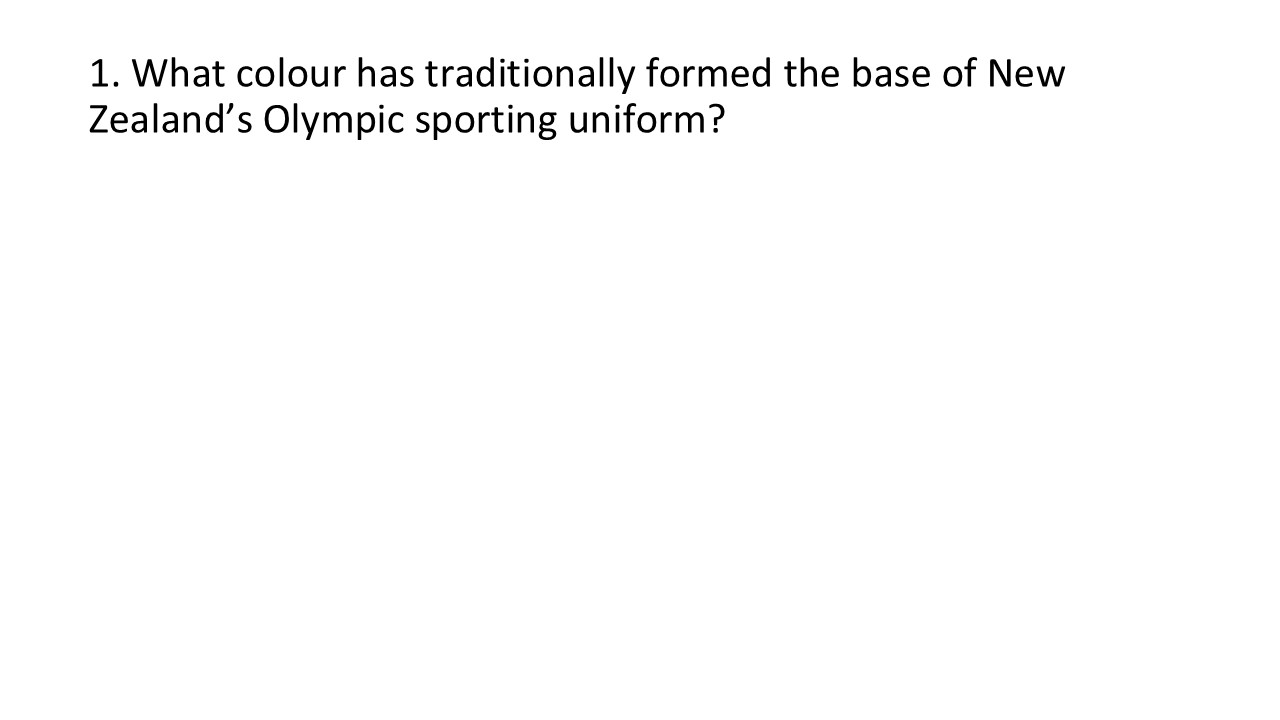
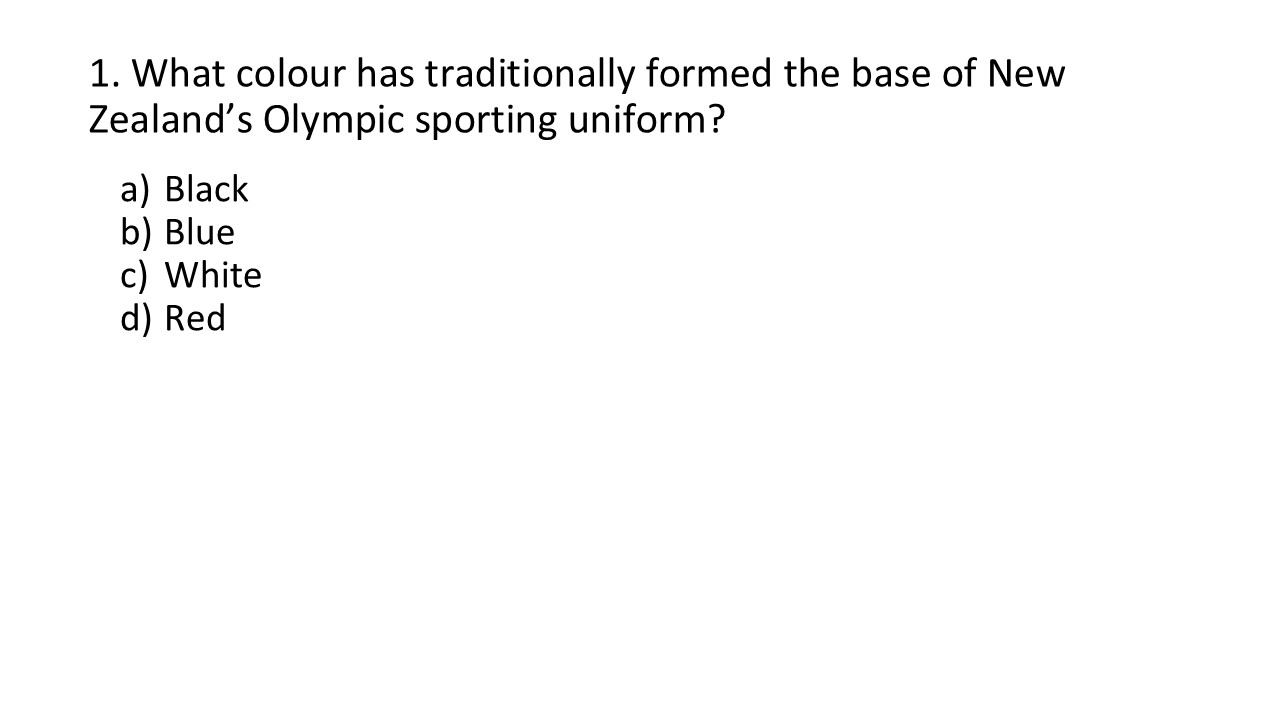
Make Session 3 trivia easier with multiple-choice answers

Changed region(s): [[0.0938, 0.2444, 0.2188, 0.4583]]

diff --git a/backend/src/services/cstScriptService.js b/backend/src/services/cstScriptService.js
@@ -1152,11 +1152,11 @@ const scripts = {
       title: 'Olympic Trivia',
       subtitle: 'The next Summer Olympics',
       prompt: 'When is the next Summer Olympics, and who is hosting it?',
-      bullets: ['Year', 'Host city'],
+      bullets: ["A. 2028 New Zealand","B. 2028 Los Angeles","C. 2029 London","D. 2029 Sweden"],
       visualHint: 'Source deck: NZ03. Physical Games, slide 22',
       accent: '#00AEEF',
       acceptAnyAnswer: true,
-      reply: () => 'When is the next Summer Olympics, and who is hosting the next Summer Olympics?',
+      reply: () => 'When is the next Summer Olympics, and who is hosting the next Summer Olympics? A. 2028 New Zealand. B. 2028 Los Angeles. C. 2029 London. D. 2029 Sweden. You can say the letter or the answer.',
     },
     {
       id: 'physical_games_trivia_next_olympics_answer',
@@ -1180,11 +1180,11 @@ const scripts = {
       title: 'Olympic Trivia Question 1',
       subtitle: 'New Zealand sporting colour',
       prompt: "What colour has traditionally formed the base of New Zealand's Olympic sporting uniform?",
-      bullets: ['New Zealand', 'Traditional sporting colour'],
+      bullets: ["A. Black","B. Blue","C. White","D. Red"],
       visualHint: 'Source deck: NZ03. Physical Games, slide 24',
       accent: '#A8C5A0',
       acceptAnyAnswer: true,
-      reply: () => "What colour has traditionally formed the base of New Zealand's Olympic sporting uniform?",
+      reply: () => "What colour has traditionally formed the base of New Zealand's Olympic sporting uniform? A. Black. B. Blue. C. White. D. Red. You can say the letter or the answer.",
     },
     {
       id: 'physical_games_trivia_uniform_answer',
@@ -1208,11 +1208,11 @@ const scripts = {
       title: 'Olympic Trivia Question 2',
       subtitle: 'First individual gold',
       prompt: 'Who was the first New Zealander to win an individual Olympic gold medal?',
-      bullets: ['New Zealand', 'Individual gold medal'],
+      bullets: ["A. Valerie Adams","B. Lisa Carrington","C. Ted Morgan","D. Hamish Bond"],
       visualHint: 'Source deck: NZ03. Physical Games, slide 26',
       accent: '#4472C4',
       acceptAnyAnswer: true,
-      reply: () => 'Who was the first New Zealander to win an individual Olympic gold medal?',
+      reply: () => 'Who was the first New Zealander to win an individual Olympic gold medal? A. Valerie Adams. B. Lisa Carrington. C. Ted Morgan. D. Hamish Bond. You can say the letter or the answer.',
     },
     {
       id: 'physical_games_trivia_first_gold_answer',
@@ -1237,12 +1237,12 @@ const scripts = {
       title: 'Olympic Trivia Question 3',
       subtitle: 'A famous New Zealand runner',
       prompt: 'Who won Olympic gold in the 800 metres in 1960, then both the 800 and 1500 metres in 1964?',
-      bullets: ['800 metres: 1960 and 1964', '1500 metres: 1964'],
+      bullets: ["A. Peter Snell","B. Lisa Carrington"],
       visualHint: 'Source deck: NZ03. Physical Games, slide 28',
       accent: '#00AEEF',
       acceptAnyAnswer: true,
       reply: () =>
-        'Which famous New Zealand athlete won Olympic gold in the 800 metres in 1960, then both the 800 and 1500 metres in 1964?',
+        'Which famous New Zealand athlete won Olympic gold in the 800 metres in 1960, then both the 800 and 1500 metres in 1964? A. Peter Snell. B. Lisa Carrington. You can say the letter or the answer.',
     },
     {
       id: 'physical_games_trivia_runner_answer',
@@ -1266,11 +1266,11 @@ const scripts = {
       title: 'Olympic Trivia Question 4',
       subtitle: 'New Zealand gold medals',
       prompt: 'Through the Paris 2024 Olympic Games, in which sport has New Zealand won the most Olympic gold medals?',
-      bullets: ['Through Paris 2024', 'New Zealand gold medals'],
+      bullets: ["A. Rugby","B. Football","C. Badminton","D. Rowing"],
       visualHint: 'Source deck: NZ03. Physical Games, slide 30',
       accent: '#F47C20',
       acceptAnyAnswer: true,
-      reply: () => 'Through the Paris 2024 Olympic Games, in which sport has New Zealand won the most Olympic gold medals?',
+      reply: () => 'Through the Paris 2024 Olympic Games, in which sport has New Zealand won the most Olympic gold medals? A. Rugby. B. Football. C. Badminton. D. Rowing. You can say the letter or the answer.',
     },
     {
       id: 'physical_games_trivia_most_gold_answer',
@@ -1294,12 +1294,12 @@ const scripts = {
       title: 'Olympic Trivia Question 5',
       subtitle: 'Lisa Carrington',
       prompt: 'How many gold medals did Lisa Carrington win at Tokyo 2020?',
-      bullets: ['Lisa Carrington', 'Tokyo 2020'],
+      bullets: ["A. Two","B. Three","C. Four"],
       visualHint: 'Source deck: NZ03. Physical Games, slide 32',
       accent: '#4472C4',
       acceptAnyAnswer: true,
       reply: () =>
-        'Lisa Carrington became New Zealand’s most decorated Olympian at Tokyo 2020. How many gold medals did she win at those Games alone?',
+        'Lisa Carrington became New Zealand’s most decorated Olympian at Tokyo 2020. How many gold medals did she win at those Games alone? A. Two. B. Three. C. Four. You can say the letter or the answer.',
     },
     {
       id: 'physical_games_trivia_carrington_answer',

diff --git a/backend/src/services/sessionOrchestratorService.js b/backend/src/services/sessionOrchestratorService.js
@@ -649,32 +649,38 @@ export const evaluateOrientationAnswer = ({ step, content, retryCount }) => {
 
 const SCRIPTED_TRIVIA_RULES = {
   physical_games_trivia_next_olympics: {
+    choices: ['2028 New Zealand', '2028 Los Angeles', '2029 London', '2029 Sweden'],
     isCorrect: (answer) =>
       /\b2028\b/.test(answer) && /\b(?:los angeles|l a)\b/.test(answer),
     correctResponse: 'Exactly — you got both the year and host city right.',
     incorrectResponse: 'Good try. One or both parts are not quite right.',
   },
   physical_games_trivia_uniform: {
+    choices: ['Black', 'Blue', 'White', 'Red'],
     isCorrect: (answer) => /\bblack\b/.test(answer),
     correctResponse: 'That is right — you chose the correct colour.',
     incorrectResponse: 'Not quite, but that was a good guess.',
   },
   physical_games_trivia_first_gold: {
+    choices: ['Valerie Adams', 'Lisa Carrington', 'Ted Morgan', 'Hamish Bond'],
     isCorrect: (answer) => /\b(?:ted morgan|morgan)\b/.test(answer),
     correctResponse: 'Spot on — you named the right Olympian.',
     incorrectResponse: 'That is not the Olympian we are looking for, but good try.',
   },
   physical_games_trivia_runner: {
+    choices: ['Peter Snell', 'Lisa Carrington'],
     isCorrect: (answer) => /\b(?:peter snell|snell)\b/.test(answer),
     correctResponse: 'Correct — you identified the runner.',
     incorrectResponse: 'That is not quite right, but it was worth a try.',
   },
   physical_games_trivia_most_gold: {
+    choices: ['Rugby', 'Football', 'Badminton', 'Rowing'],
     isCorrect: (answer) => /\browing\b/.test(answer),
     correctResponse: 'You have got it — that is the right sport.',
     incorrectResponse: 'Close, but that is not the sport in the answer.',
   },
   physical_games_trivia_carrington: {
+    choices: ['Two', 'Three', 'Four'],
     isCorrect: (answer) => /\b(?:3|three)\b/.test(answer),
     correctResponse: 'Well done — that number is correct.',
     incorrectResponse: 'That number is not quite right, but good guess.',
@@ -693,6 +699,18 @@ const SCRIPTED_TRIVIA_RULES = {
 
 const isScriptedTriviaQuestion = (step) => Boolean(SCRIPTED_TRIVIA_RULES[step?.id]);
 
+// Only expand complete letter selections: the article "a" in a sentence must
+// not become option A.
+const expandTriviaChoices = (content, choices) => {
+  if (!choices) return content;
+  const answer = normalizeAnswer(content);
+  const selection = answer.match(/^(?:(?:i think|i choose|i pick|i will go with|i ll go with|it is|it s|the answer is)\s+)?(?:(?:option|letter|answer)\s+)?([abcd]|ay|bee|be|see|sea|dee)(?:\s+please)?$/);
+  if (!selection) return content;
+  const letters = { ay: 'a', bee: 'b', be: 'b', see: 'c', sea: 'c', dee: 'd' };
+  const letter = letters[selection[1]] || selection[1];
+  return choices[letter.charCodeAt(0) - 97] || content;
+};
+
 export const evaluateTriviaAnswer = ({ step, content }) => {
   const rule = SCRIPTED_TRIVIA_RULES[step?.id];
   if (!rule || !content) return null;
@@ -705,7 +723,7 @@ export const evaluateTriviaAnswer = ({ step, content }) => {
     };
   }
 
-  const correct = rule.isCorrect(normalizeAnswer(content));
+  const correct = rule.isCorrect(normalizeAnswer(expandTriviaChoices(content, rule.choices)));
   return {
     answered: true,
     response: correct ? rule.correctResponse : rule.incorrectResponse,

diff --git a/backend/src/services/sessionOrchestratorService.test.js b/backend/src/services/sessionOrchestratorService.test.js
@@ -388,17 +388,17 @@ test('keeps Session 3 Olympic trivia answers precise and current through Paris 2
 
   assert.equal(
     renderScriptReply(nextOlympicsQuestion, {}),
-    'When is the next Summer Olympics, and who is hosting the next Summer Olympics?'
+    'When is the next Summer Olympics, and who is hosting the next Summer Olympics? A. 2028 New Zealand. B. 2028 Los Angeles. C. 2029 London. D. 2029 Sweden. You can say the letter or the answer.'
   );
   assert.match(renderScriptReply(nextOlympicsAnswer, {}), /Los Angeles in 2028/i);
   assert.equal(
     renderScriptReply(uniformQuestion, {}),
-    "What colour has traditionally formed the base of New Zealand's Olympic sporting uniform?"
+    "What colour has traditionally formed the base of New Zealand's Olympic sporting uniform? A. Black. B. Blue. C. White. D. Red. You can say the letter or the answer."
   );
   assert.match(renderScriptReply(uniformAnswer, {}), /answer is black/i);
   assert.equal(
     renderScriptReply(firstGoldQuestion, {}),
-    'Who was the first New Zealander to win an individual Olympic gold medal?'
+    'Who was the first New Zealander to win an individual Olympic gold medal? A. Valerie Adams. B. Lisa Carrington. C. Ted Morgan. D. Hamish Bond. You can say the letter or the answer.'
   );
   assert.match(renderScriptReply(firstGoldAnswer, {}), /Ted Morgan.*welterweight boxing.*1928/i);
   assert.match(renderScriptReply(runnerQuestion, {}), /800 metres in 1960/i);
@@ -2077,4 +2077,37 @@ test('rejects a duplicate meal-builder submission once the plate has already bee
     }),
     (error) => error.status === 409
   );
+});
+
+
+test('Session 3 accepts each displayed option by letter or text', () => {
+  const cases = [
+    [21, ['2028 New Zealand', '2028 Los Angeles', '2029 London', '2029 Sweden'], 1],
+    [23, ['Black', 'Blue', 'White', 'Red'], 0],
+    [25, ['Valerie Adams', 'Lisa Carrington', 'Ted Morgan', 'Hamish Bond'], 2],
+    [27, ['Peter Snell', 'Lisa Carrington'], 0],
+    [29, ['Rugby', 'Football', 'Badminton', 'Rowing'], 3],
+    [31, ['Two', 'Three', 'Four'], 1],
+  ];
+  for (const [index, options, correct] of cases) {
+    const step = getScriptStep('cst_physical_games', index).step;
+    for (const [i, option] of options.entries()) {
+      const letter = 'ABCD'[i];
+      for (const content of [letter, letter.toLowerCase(), letter + '.', 'option ' + letter, 'I think ' + letter, 'I will go with ' + letter, option, 'I think ' + option]) {
+        assert.equal(evaluateTriviaAnswer({ step, content }).outcome, i === correct ? 'correct' : 'incorrect', step.id + ': ' + content);
+      }
+      assert.ok(renderScriptReply(step, {}).includes(letter + '. ' + option));
+    }
+  }
+});
+
+test('letter matching handles speech spellings without matching articles or unavailable choices', () => {
+  const outcome = (index, content) => evaluateTriviaAnswer({ step: getScriptStep('cst_physical_games', index).step, content }).outcome;
+  assert.equal(outcome(21, 'bee'), 'correct');
+  assert.equal(outcome(25, 'see'), 'correct');
+  assert.equal(outcome(29, 'dee'), 'correct');
+  assert.equal(outcome(23, 'a blue uniform'), 'incorrect');
+  assert.equal(outcome(27, 'D'), 'incorrect');
+  assert.equal(outcome(31, 'D'), 'incorrect');
+  assert.equal(outcome(23, 'A or B'), 'incorrect');
 });

diff --git a/backend/context/vCST_Session3_AI_Script.md b/backend/context/vCST_Session3_AI_Script.md
@@ -135,6 +135,7 @@ For every trivia response, check the scripted answer before showing the answer s
 # Step 22 — Next Summer Olympics question
 
 Ask when the next Summer Olympics will be held and who is hosting them. Any genuine attempt may proceed to the answer slide.
+Read the choices: A. 2028 New Zealand; B. 2028 Los Angeles; C. 2029 London; D. 2029 Sweden. Accept the letter or spoken option text.
 
 ---
 
@@ -147,6 +148,7 @@ State Los Angeles 2028. Do not ask a question; the slide advances automatically.
 # Step 24 — Uniform question
 
 Ask which colour has traditionally formed the base of New Zealand's Olympic sporting uniform.
+Read the choices: A. Black; B. Blue; C. White; D. Red. Accept the letter or spoken option text.
 
 ---
 
@@ -159,6 +161,7 @@ State that black is New Zealand's traditional Olympic sporting colour. Do not as
 # Step 26 — First individual gold question
 
 Ask who was the first New Zealander to win an individual Olympic gold medal.
+Read the choices: A. Valerie Adams; B. Lisa Carrington; C. Ted Morgan; D. Hamish Bond. Accept the letter or spoken option text.
 
 ---
 
@@ -171,6 +174,7 @@ State Ted Morgan and welterweight boxing at Amsterdam 1928. Advance automaticall
 # Step 28 — Runner question
 
 Ask which famous New Zealand athlete won the 800 metres in 1960, then both the 800 and 1500 metres in 1964.
+Read the choices: A. Peter Snell; B. Lisa Carrington. Accept the letter or spoken option text.
 
 ---
 
@@ -183,6 +187,7 @@ State Peter Snell. Do not ask a question; the slide advances automatically.
 # Step 30 — Most gold medals question
 
 Ask which sport had won New Zealand's most Olympic gold medals through Paris 2024.
+Read the choices: A. Rugby; B. Football; C. Badminton; D. Rowing. Accept the letter or spoken option text.
 
 ---
 
@@ -195,6 +200,7 @@ State that the answer is rowing. Do not ask a question; the slide advances autom
 # Step 32 — Lisa Carrington question
 
 Ask how many gold medals Lisa Carrington won at Tokyo 2020.
+Read the choices: A. Two; B. Three; C. Four. Accept the letter or spoken option text.
 
 ---
 
